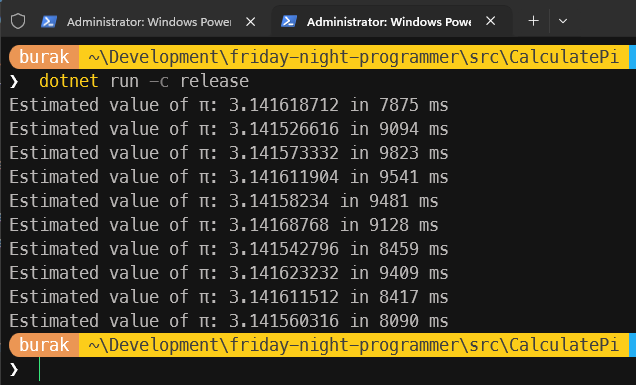
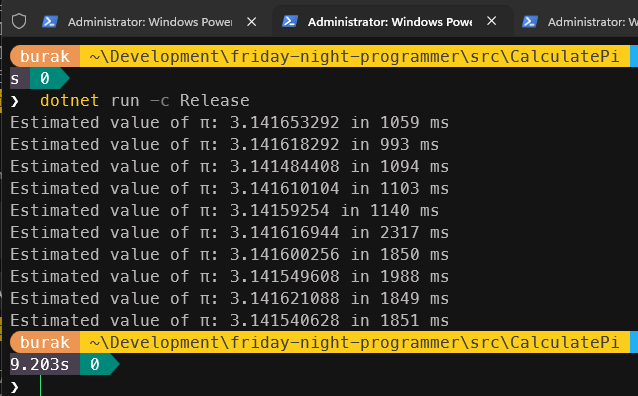
Refactor π calculation implementations; update performance measurement and comparison across C#, Rust, and Zig

Changed region(s): [[0.0, 0.0312, 1.0, 1.0], [0.3884, 0.0312, 0.4182, 0.0623]]

diff --git a/src/CalculatePi/Program.cs b/src/CalculatePi/Program.cs
@@ -9,12 +9,12 @@ public class Program
         for (int i = 0; i < 10; i++)
         {
             stopwatch.Restart();
-            long inCircle = PiEstimatorV0(totalIterations);
+            // long inCircle = PiEstimatorV0(totalIterations);
             // long inCircle = PiEstimatorV1(totalIterations);
             // long inCircle = PiEstimatorV2(totalIterations);
             // long inCircle = PiEstimatorV3(totalIterations);
             // long inCircle = PiEstimatorV4(totalIterations);
-            // long inCircle = PiEstimatorV5(totalIterations);
+            long inCircle = PiEstimatorV5(totalIterations);
             Console.WriteLine($"Estimated value of π: {4.0 * inCircle / totalIterations} in {stopwatch.ElapsedMilliseconds} ms");
         }
     }

diff --git a/src/calculate-pi-rust/src/main.rs b/src/calculate-pi-rust/src/main.rs
@@ -7,8 +7,8 @@ fn main() {
 
     for _ in 0..10 {
         let start_time = std::time::Instant::now();
-        //let pi_estimate = calculate_pi_v0(total_iterations);
-        let pi_estimate = calculate_pi_v1(total_iterations);
+        let pi_estimate = calculate_pi_v0(total_iterations);
+        // let pi_estimate = calculate_pi_v1(total_iterations);
         let elapsed = start_time.elapsed();
         println!("Estimated Pi: {} in {:?}", pi_estimate, elapsed);
     }

diff --git a/documents/CalculatePi.md b/documents/CalculatePi.md
@@ -310,7 +310,7 @@ dotnet run -c Release
 
 ![CalculatePi_10](../images/CalculatePi_10.png)
 
-**dotnet run** ile doğrudan çalıştırdığımıza göre daha iyi sonuçlar aldık ama **rust** tarafına nazaran yine kötü ve epeyce kötü. Fakat şartlar yine eşit değil! Burada **Just-in Time** derleyicisinin optimizasyonları ile bir performans artışı sağlandı. Lakin .Net 8 sonrası gelen **Native AOT** desteği ile **rust** tarafına daha yakın sonuçlar elde etmek mümkün olabilir. O zaman programımızı birde **Native AOT** ile çalıştıralım. Bu amaçla ben aşağıdaki komutu denedim. Hem işlemci mimarisi hem de işletim sistemine uygun bir **release** çıktısı hazırlanıyor. Sonrasında tabii bu exe'yi çalıştırmamız gerekiyor.
+**dotnet run** ile doğrudan çalıştırdığımıza göre daha iyi sonuçlar aldık ama **rust** tarafına nazaran o kadar da iyi sayılmaz. Fakat şartlar yine eşit değil! Burada **Just-in Time** derleyicisinin optimizasyonları ile bir performans artışı sağlandı. Lakin .Net 8 sonrası gelen **Native AOT** desteği ile **rust** tarafına daha yakın sonuçlar elde etmek mümkün olabilir. O zaman programımızı birde **Native AOT** ile çalıştıralım. Bu amaçla ben aşağıdaki komutu denedim. Hem işlemci mimarisi hem de işletim sistemine uygun bir **release** çıktısı hazırlanıyor. Sonrasında tabii bu exe'yi çalıştırmamız gerekiyor.
 
 ```bash
 dotnet publish -c Release -r win-x64 --self-contained true /p:PublishAot=true
@@ -320,11 +320,11 @@ cd .\bin\release\net10.0\win-x64\publish\
 
 ![CalculatePi_11](../images/CalculatePi_11.png)
 
-Yani o kadar büyük bir iyileşme olmadı gibi. Hele rust ile release modda çalıştırılan kodun çalışma zamanı süreleri düşünülünce. Atladığım kesin bir şey var ve emin olmak adına **C#** uygulamasını belki de **SIMD *(Single Instruction, Multiple Data)*** desteği ekleyerek denemek gerekiyor. Tabii burada **SIMD** konusunu kısaca izah etmek lazım. Uzmanı değilim ama okuduğum kadarıyla hikayeyi şöyle özetleyebilirim;
+İyileşme olmadığı gibi süreler bir noktadan sonra uzayıp aynı seyirde devam etti gibi. Belki ilk çalışmaya başladığında işlemci ısındı ve donanımın bir gerçeği olarak süreler uzayıp aynı seyirde kaldı. Bunu ölçümlemek için daha iyi bir monitoring sistemi kurgulamak gerekiyor ama bu beni şu an için aşacak gibi duruyor. Kod tarafında kesin atladığım bir şey var ve emin olmak adına **C#** uygulamasını belki de **SIMD *(Single Instruction, Multiple Data)*** desteği ekleyerek denemek daha doğru olur. **SIMD** konusunu da kısaca izah etmek isterim, en azından anladığım kadarıyla.
 
 > Monte Carlo yönteminde çembere isabet etme durumunu tespit edereken bir formül kullanıyoruz. `x*x + y*y <= 1.0` şeklinde. İşlemcinin her bir sayı çifti için tek tek bu işlemi yaptığını düşünelim. Ancak SIMD desteği ile işlemcinin bazı register'larını kullanıp aynı anda 4 double veya 8 float işlemin tek bir saat vuruşunda *(clock cycle)* yapılması sağlanabilir. Yani tek bir işlemle 4 veya 8 sayı çifti için `x*x + y*y <= 1.0` kontrolü yapılabilir. İşin matematiği beni şu an için aşıyor ancak .Net'in **System.Runtime.Intrinsics** kütüphanesinde yer alan `Vector256`, `Vector<T>` gibi türler ile bu tür bir optimizasyonu deneyebiliriz. Tür adlarından da anlaşılacağı üzere burada hesaplamaların vektör karşılıklarının bulunduğu bir senaryo var. Ancak işimizi zorlaştıracak bir kısım var ki o da rastgele sayı üretimi. **NextDouble** metodunun tekil *(kaynaklarda scalar olarak ifade ediliyor)* çalıştığı ve SIMD ile doğrudan vektör halinde çalışacak bir karşılığının olmadığı iddia ediliyor. Bu, rastgele sayıları bu şekilde kullanırsak donanımsal avantajlardan yararlanamayacağımız anlamına gelmekte. Genellikle **XorShift**, **PCG *(Permuted Congruential Generator)*** gibi algoritmaların kullanılması ya da rastgele sayıları önce devasa bir diziye doldurup SIMD ile bu diziden vektörler halinde çekilmesi gibi yöntemler öneriliyor. Bunun kodunu yazmak için biraz daha araştırma yapmam şart ki repoda denemesini yapacağım.
 
-Tekrardan rust tarafına dönelim ve uygulama kodumuzu aşağıdaki gibi değiştirelim.s
+Tekrardan rust tarafına dönelim ve uygulama kodumuzu aşağıdaki gibi değiştirelim.
 
 ```rust
 use rand::rngs::SmallRng;
@@ -382,7 +382,7 @@ pub fn get_circle_value(x_values: &[f64; 4], y_values: &[f64; 4]) -> u64 {
 
 ![CalculatePi_12](../images/CalculatePi_12.png)
 
-Haydaaa! :D SIMD dedik daha hızlı çalışır dedik ancak bir önceki rust kodumuza göre neredeyse 3.5 kat daha yavaş çalışma zamanı süreleri gördük, oldu mu şimdi! Aslında elde ettiğimiz süreler iki uygulama biçimi içinde oldukça iyi. Milisaniyeler mertebesinde 1 milyarlık iterasyonları tamamladık. Hatta ilk rust kodumuz gayet sade ve anlaşılır. Yine de SIMD beklediğimiz şekilde çalışmadı. Buradaki kritik nokta maliyetin nerede olduğunu tespit edebilmek. Büyük ihtmalle rastgele sayı üretimi işi beklenenden uzun sürüyor ve doğru şekilde bir vektörleme gerçekleşmiyor. SIMD için **"veriler zaten devasa bir dizide ve bellekte hazır bekliyorsa"** gibi bir durum olduğu ifade ediliyor *(Yani böyle bir hazırlık sonrası daha çok işe yarar deniyor)* Lakin bizim örneğimizde veriyi her adımda sıfırdan üretiyoruz ve üretim maliyeti hesaplama maliyetinin üzerine çıkıyor. Dikkat edelim rastgele sayı üretiminden 4 elemanlık bir dizi çıkartmayı kolaylaştırdık kolaylaştırmasına ama 4erli gruplama için altına girdiğimiz bu maliyet hesaplama süresini ciddi şekilde artırdı. Ciddi şekilde dediğime bakmayın, .Net kodumuza nazaran burada milisaniyeler mertebesinde konuşabiliyoruz *(Tabii C# program kodumuzu da SIMD ile çalışır hale getirip bir değerlendirme yapmamız lazım)*
+Haydaaa! :D **SIMD** dedik daha hızlı çalışır dedik ancak bir önceki rust kodumuza göre neredeyse **3.5** kat daha yavaş çalışma zamanı süreleri gördük, oldu mu şimdi! Aslında elde ettiğimiz süreler iki uygulama biçimi içinde oldukça iyi. Milisaniyeler mertebesinde 1 milyarlık iterasyonları tamamladık. Hatta ilk rust kodumuz gayet sade ve anlaşılır. Yine de **SIMD** metodolojimiz beklediğimiz şekilde çalışmadı. Buradaki kritik nokta maliyetin nerede olduğunu tespit edebilmek. Büyük ihtmalle rastgele sayı üretimi işi beklenenden uzun sürüyor ve doğru şekilde bir vektörleme gerçekleşmiyor. SIMD için **"veriler zaten devasa bir dizide ve bellekte hazır bekliyorsa"** gibi bir durum olduğu ifade ediliyor *(Yani böyle bir hazırlık sonrası daha çok işe yarar deniyor)* Lakin bizim örneğimizde veriyi her adımda sıfırdan üretiyoruz ve üretim maliyeti hesaplama maliyetinin üzerine çıkıyor. Dikkat edelim rastgele sayı üretiminden 4 elemanlık bir dizi çıkartmayı kolaylaştırdık kolaylaştırmasına ama 4erli gruplama için altına girdiğimiz bu maliyet hesaplama süresini ciddi şekilde artırdı. Ciddi şekilde dediğime bakmayın, .Net kodumuza nazaran burada milisaniyeler mertebesinde konuşabiliyoruz *(Tabii C# program kodumuzu da SIMD ile çalışır hale getirip bir değerlendirme yapmamız lazım)*
 
 ## O Zaman Kontrolü Biraz Daha Elimize Alalım. Zig ile Deneyelim
 
@@ -494,4 +494,12 @@ Aslında bu çalışmada amacım **Pi *(π)*** sayısını hesaplarken **monte c
 
 **Monte carlo** doğru pi rakamlarına ulaşmak için iyi bir tercih değil. Bunu değiştirip farklı bir matematik model ile ilerlemek lazım ama tüm kodlarımız için şu anda aynı yöntem söz konusu. Dolayısıyla çalışma sürelerini kıyaslamak ve bir özet tablo hazırlamak iyi olabilir.
 
-DEVAM EDECEK...
+Ortalık tabii çok karıştı. Hatta çalışma sırasında C# metodunun eski versiyonunu tekrar çalıştırdığımı fark ettim. Dolayısıyla üç dilinde en son karar kıldığım kod versiyonlarını aynı iterasyonlar sayıları ile ve release modda derleyerek çalıştırmaya karar verdim.
+
+Süreler milisaniye cinsindendir ve toplamda 10 çalıştırma üzerinden ortalama süreler hesaplanmıştır.
+
+| Dil | Yöntem | Komut | İlk Süre | Son Süre | En Çabuk Süre | En Yavaş Süre | Ortalama Süre |
+| --- | --- | --- | --- | --- | --- | --- | --- |
+| C# | Paralel for, Task, Çekirdek Sayısı kadar, | dotnet run -c Release | 1029 ms | 2252 ms | 1029 ms | 3103 ms | 2119.1 ms |
+| Rust | Rayon | cargo run --release | 255.427 ms | 254.023 ms | 247.887 ms | 257.314 ms | 251.564 ms |
+| Zig | std.Thread | zig run .\program.zig -O ReleaseFast -mcpu=native | 474 ms | 1097 ms | 474 ms | 1121 ms | 637 ms |
